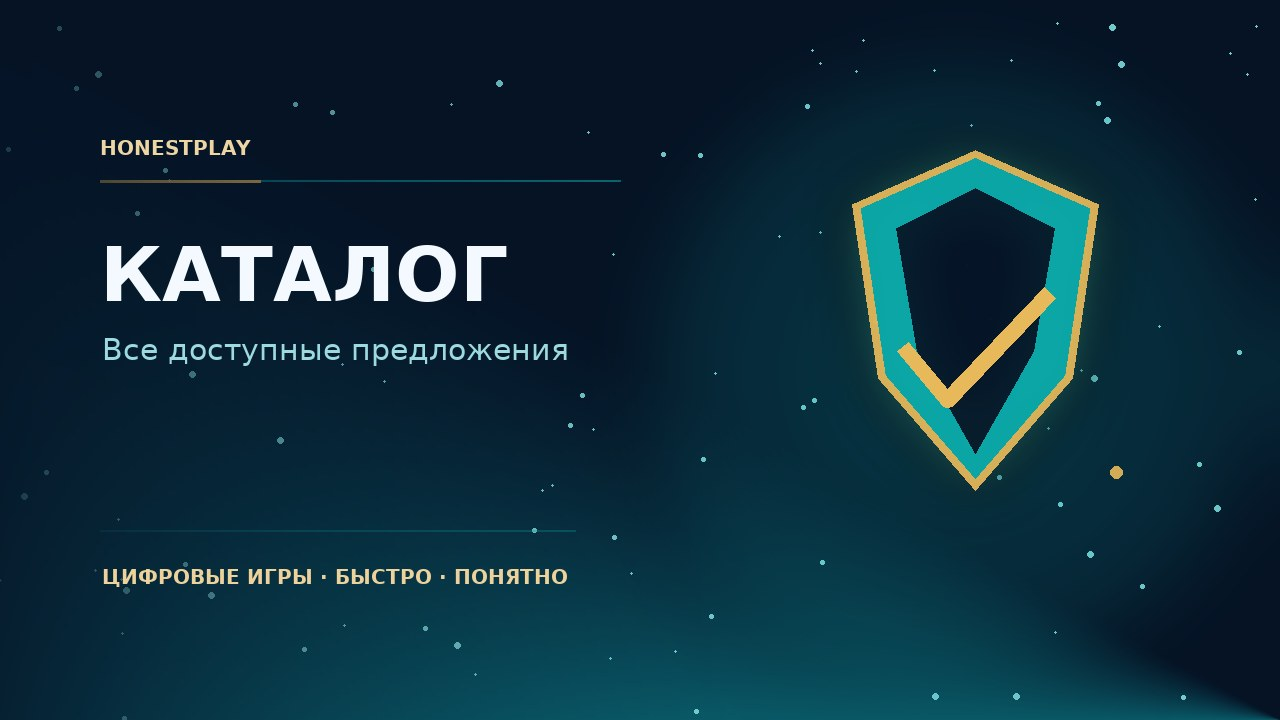
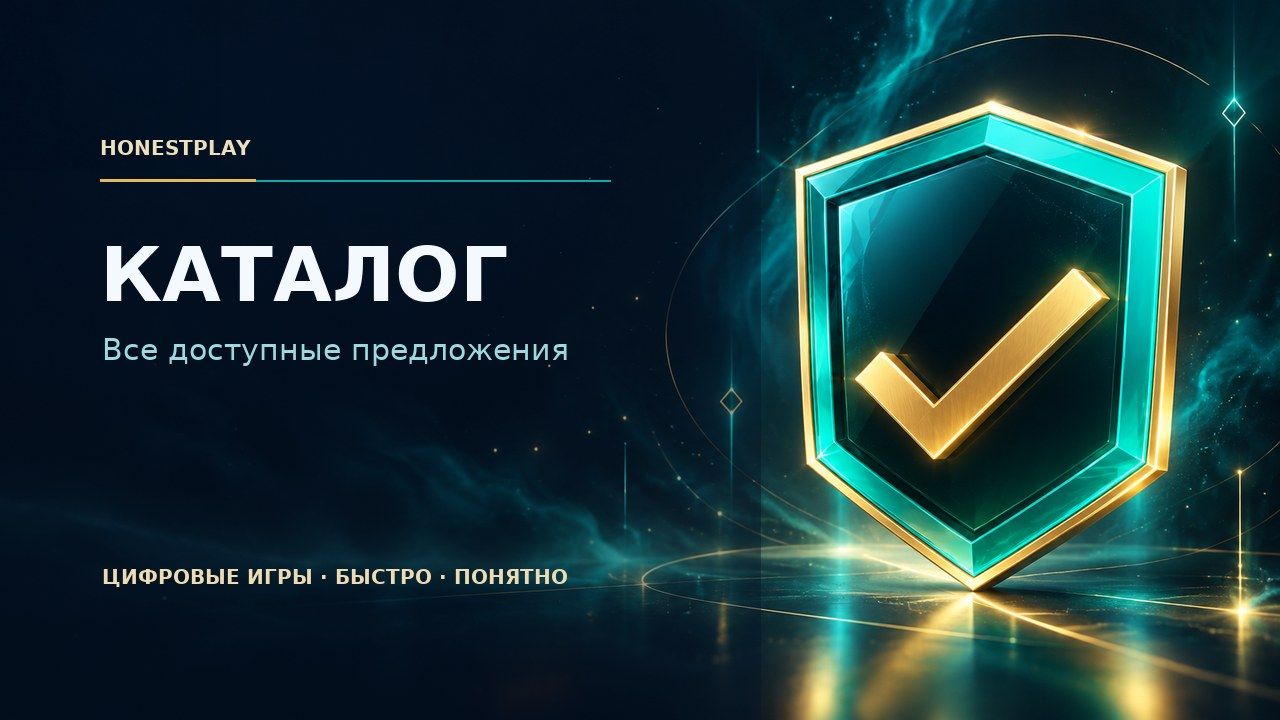
fix

diff --git a/scripts/make_banners.py b/scripts/make_banners.py
@@ -7,10 +7,11 @@ from __future__ import annotations
 import random
 from pathlib import Path
 
-from PIL import Image, ImageDraw, ImageFilter, ImageFont
+from PIL import Image, ImageDraw, ImageFilter, ImageFont, ImageOps
 
 ROOT = Path(__file__).resolve().parent.parent
 OUT = ROOT / "assets" / "banners"
+MASTER_ART = ROOT / "assets" / "banner_master.png"
 SIZE = (1280, 720)
 BRAND = "HonestPlay"
 NAVY, TEAL, CYAN, GOLD, WHITE = (5, 19, 37), (12, 169, 170), (48, 214, 215), (232, 185, 90), (244, 248, 255)
@@ -102,47 +103,40 @@ def background(color: tuple[int, int, int], seed: int) -> Image.Image:
 
 
 def render(title: str, subtitle: str, color: tuple[int, int, int], number: int) -> Image.Image:
-    image = background(color, number).convert("RGBA")
-    # Telegram can place a round chat/avatar control over the upper-left part of
-    # a photo. Keep this 220×170 area deliberately free of text or logos.
-    lights = Image.new("RGBA", SIZE)
-    light_draw = ImageDraw.Draw(lights)
-    for radius, alpha in ((330, 34), (210, 46), (100, 65)):
-        light_draw.ellipse((955 - radius, 370 - radius, 955 + radius, 370 + radius), fill=(*color, alpha))
-    image = Image.alpha_composite(image, lights.filter(ImageFilter.GaussianBlur(45)))
-    emblem = shield_layer(SIZE, color, (840, 150, 1110, 490))
-    image = Image.alpha_composite(image, emblem.filter(ImageFilter.GaussianBlur(28)))
-    image = Image.alpha_composite(image, emblem)
-    add_check(image, (902, 292, 1050, 400))
+    if MASTER_ART.exists():
+        # The artwork is intentionally text-free. Crop it to Telegram's 16:9
+        # media card while preserving the emblem on the right.
+        image = ImageOps.fit(Image.open(MASTER_ART).convert("RGB"), SIZE, method=Image.Resampling.LANCZOS, centering=(.50, .44)).convert("RGBA")
+    else:
+        image = background(color, number).convert("RGBA")
 
-    # Thin interface accents give the composition a deliberate, game-like grid
-    # without competing with the heading or the shield.
-    accents = Image.new("RGBA", SIZE)
-    accent_draw = ImageDraw.Draw(accents)
-    accent_draw.line([(100, 180), (620, 180)], fill=(*color, 145), width=2)
-    accent_draw.line([(100, 181), (260, 181)], fill=(*GOLD, 220), width=3)
-    accent_draw.line([(100, 530), (575, 530)], fill=(*color, 80), width=2)
-    accent_draw.ellipse((1110, 466, 1122, 478), fill=(*GOLD, 230))
-    image = Image.alpha_composite(image, accents)
-    veil = Image.new("L", SIZE)
-    veil_draw = ImageDraw.Draw(veil)
-    for x in range(760):
-        veil_draw.line([(x, 0), (x, SIZE[1])], fill=round(205 * max(0, 1 - x / 760) ** 1.6))
-    image = Image.composite(Image.new("RGBA", SIZE, (*NAVY, 255)), image, veil)
+    # Deepen only the copy area; the artwork and its right-side emblem remain
+    # untouched. The upper-left 220×170 stays free for Telegram's round avatar.
+    overlay = Image.new("RGBA", SIZE, (0, 0, 0, 0))
+    overlay_draw = ImageDraw.Draw(overlay)
+    overlay_draw.rectangle((0, 0, 760, SIZE[1]), fill=(*NAVY, 104))
+    overlay_draw.rectangle((0, 0, 220, 170), fill=(*NAVY, 48))
+    image = Image.alpha_composite(image, overlay)
     draw = ImageDraw.Draw(image)
     label_font = ImageFont.truetype(str(TITLE_FONT), 20)
-    draw.text((100, 136), "HONESTPLAY", font=label_font, fill=mix(GOLD, WHITE, .45))
+    draw.text((100, 136), "HONESTPLAY", font=label_font, fill=mix(GOLD, WHITE, .60))
+    draw.line((100, 180, 610, 180), fill=(*color, 150), width=2)
+    draw.line((100, 180, 255, 180), fill=(*GOLD, 230), width=3)
     title_font = fitted_font(TITLE_FONT, title, 650, 76)
     draw.text((100, 230), title, font=title_font, fill=WHITE)
     draw.text((102, 230 + title_font.size + 26), subtitle, font=fitted_font(TEXT_FONT, subtitle, 610, 30), fill=mix(color, WHITE, .62))
-    draw.text((102, 565), "ЦИФРОВЫЕ ИГРЫ · БЫСТРО · ПОНЯТНО", font=label_font, fill=mix(GOLD, WHITE, .40))
+    draw.text((102, 565), "ЦИФРОВЫЕ ИГРЫ · БЫСТРО · ПОНЯТНО", font=label_font, fill=mix(GOLD, WHITE, .54))
     return image.convert("RGB")
 
 
 def main() -> None:
     OUT.mkdir(parents=True, exist_ok=True)
-    logo().save(ROOT / "assets" / "logo.png", optimize=True)
-    print("assets/logo.png  (аватарка: @BotFather → /setuserpic)")
+    logo_path = ROOT / "assets" / "logo.png"
+    if not logo_path.exists():
+        logo().save(logo_path, optimize=True)
+        print("assets/logo.png  (аватарка: @BotFather → /setuserpic)")
+    else:
+        print("assets/logo.png  (existing avatar preserved)")
     for number, (key, spec) in enumerate(SECTIONS.items(), start=1):
         path = OUT / f"{key}.jpg"
         render(*spec, number).save(path, "JPEG", quality=88, optimize=True, progressive=True)

diff --git a/bot/main.py b/bot/main.py
@@ -5,7 +5,7 @@ from time import perf_counter
 from aiogram import BaseMiddleware, Bot, Dispatcher
 from aiogram.client.default import DefaultBotProperties
 from aiogram.enums import ParseMode
-from aiogram.types import ErrorEvent
+from aiogram.types import BotCommand, ErrorEvent
 from sqlalchemy import text
 
 from bot.handlers import admin, store, support
@@ -15,6 +15,29 @@ from database.session import engine
 
 
 logger = logging.getLogger(__name__)
+
+BOT_COMMANDS = [
+    BotCommand(command="start", description="Открыть магазин"),
+    BotCommand(command="help", description="Как пользоваться ботом"),
+    BotCommand(command="support", description="Написать в поддержку"),
+    BotCommand(command="paysupport", description="Вопрос по оплате"),
+    BotCommand(command="documents", description="Документы и правила"),
+    BotCommand(command="privacy", description="Политика конфиденциальности"),
+    BotCommand(command="agreement", description="Пользовательское соглашение"),
+    BotCommand(command="offer", description="Публичная оферта"),
+    BotCommand(command="returns", description="Возвраты и отмена"),
+    BotCommand(command="contacts", description="Контакты поддержки"),
+    BotCommand(command="prices", description="Цены и тарифы"),
+]
+
+
+async def configure_commands(bot: Bot) -> None:
+    """Publish the command menu shown when a customer types '/' in Telegram."""
+    try:
+        await bot.set_my_commands(BOT_COMMANDS)
+    except Exception:
+        # A temporary Telegram API failure must not stop the shop from starting.
+        logger.exception("Could not update Telegram command menu")
 
 
 class SlowUpdateMiddleware(BaseMiddleware):
@@ -76,6 +99,7 @@ async def main() -> None:
     dp.update.outer_middleware(SlowUpdateMiddleware())
     dp.errors.register(recover_stale_screen)
     await bot.delete_webhook(drop_pending_updates=False)
+    await configure_commands(bot)
     warm_task = asyncio.create_task(keep_warm(bot))
     try:
         await dp.start_polling(bot, allowed_updates=dp.resolve_used_update_types())

diff --git a/bot/handlers/store.py b/bot/handlers/store.py
@@ -866,6 +866,32 @@ async def documents(callback: CallbackQuery) -> None:
     )
 
 
+@router.message(Command("documents", "rules"))
+async def documents_command(message: Message) -> None:
+    await reply(
+        message,
+        "<b>Документы и правила</b>\n"
+        "Здесь всегда доступны условия использования, обработки данных, цены и правила оплаты.",
+        documents_keyboard(),
+        "docs",
+    )
+
+
+@router.message(Command("help", "commands"))
+async def help_command(message: Message) -> None:
+    await reply(
+        message,
+        "<b>Как пользоваться ботом</b>\n\n"
+        "🛍 <b>Каталог</b> — выберите игру или карту, проверьте регион и цену.\n"
+        "🛒 <b>Корзина</b> — меняйте количество, вводите промокод и смотрите итог.\n"
+        "💬 <b>Поддержка</b> — команда /support или кнопка в меню; для вопроса по оплате — /paysupport.\n"
+        "📄 <b>Документы</b> — команда /documents: конфиденциальность, оферта, возвраты, цены и контакты.\n\n"
+        "Введите <code>/</code>, чтобы Telegram показал все быстрые команды.",
+        kb([("🛍 Открыть каталог", "menu"), ("📄 Документы", "documents")], [("💬 Поддержка", "support")]),
+        "menu",
+    )
+
+
 @router.callback_query(F.data.startswith("doc:"))
 async def document(callback: CallbackQuery) -> None:
     code = callback.data.split(":", 1)[1]

diff --git a/tests/test_commands.py b/tests/test_commands.py
@@ -1,0 +1,7 @@
+from bot.main import BOT_COMMANDS
+
+
+def test_customer_command_menu_contains_help_support_and_documents() -> None:
+    commands = {item.command for item in BOT_COMMANDS}
+    assert {"start", "help", "support", "paysupport", "documents"} <= commands
+    assert {"privacy", "agreement", "offer", "returns", "contacts", "prices"} <= commands
